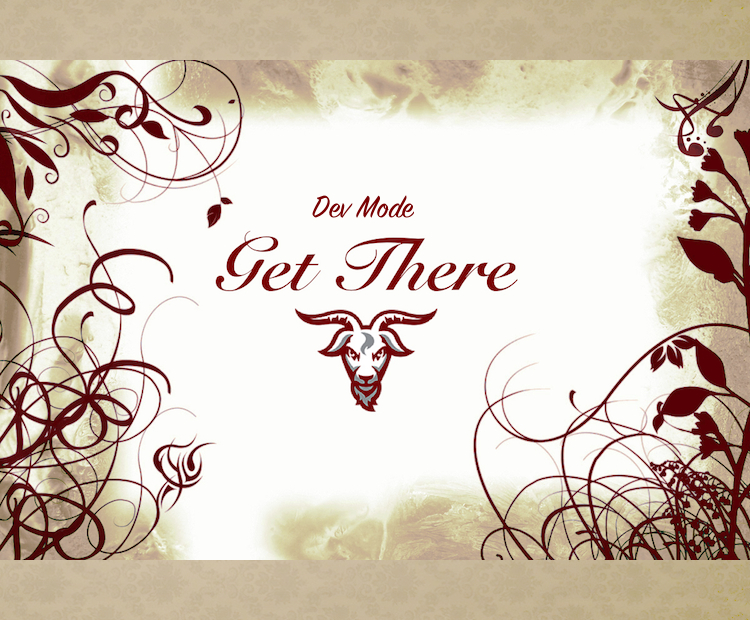
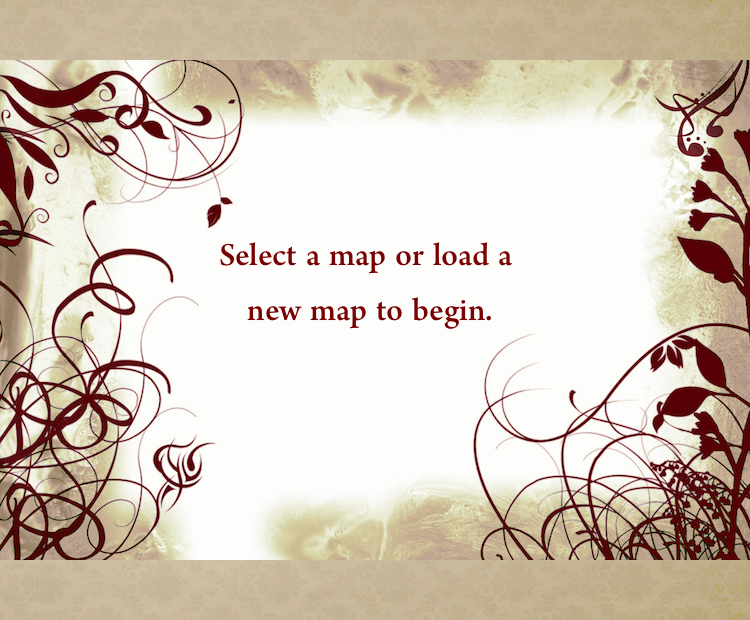
Default Image for Dev GUI

Changed region(s): [[0.276, 0.3065, 0.7053, 0.6742]]

diff --git a/GetThere/src/DevGUI.java b/GetThere/src/DevGUI.java
@@ -49,6 +49,7 @@ public class DevGUI extends JPanel{
 	static DevGUI window;
 	private ImageIcon currentMapFile;
 	private ImageIcon tempMapFile;
+	private ImageIcon defaultImage;
 	//private NodeType currentType;
 	private Node currentNode;
 
@@ -565,7 +566,8 @@ public class DevGUI extends JPanel{
 			}
 			else
 			{
-				g.drawString("Select a map or load a new map to begin", 300,300);
+				defaultImage = new ImageIcon ("Final Maps - Get There/StartingImageDev.jpg");
+				g.drawImage(defaultImage.getImage(), 0, 0, this);
 			}
 
 			// if(selectedMap.getImage() != null)
